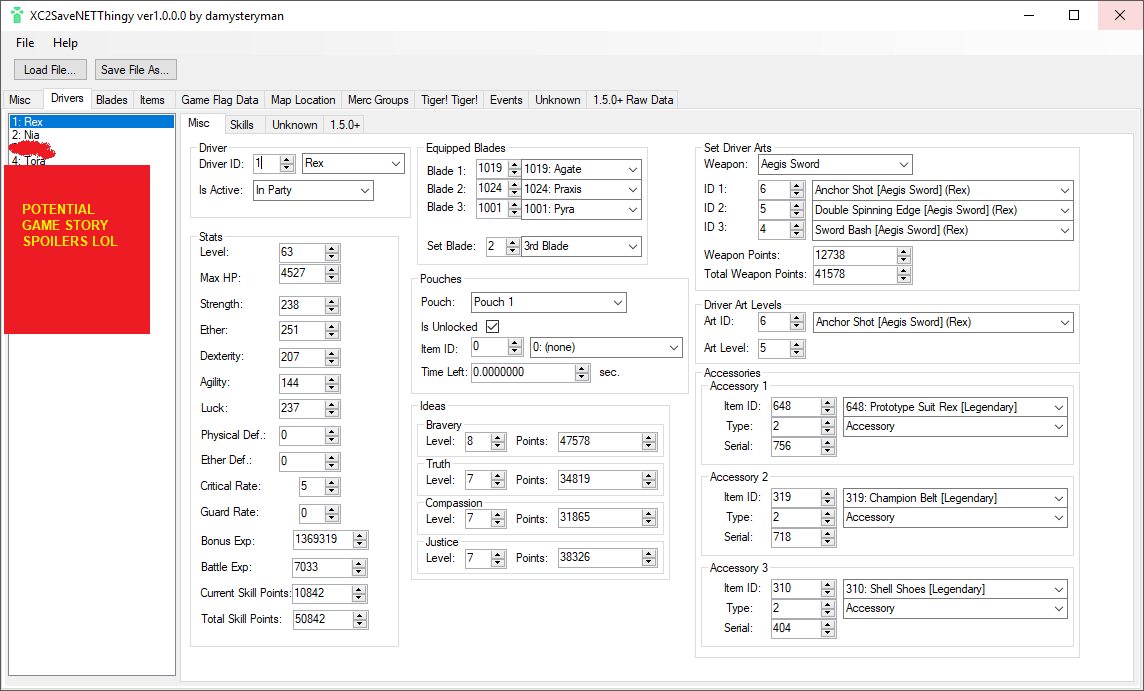
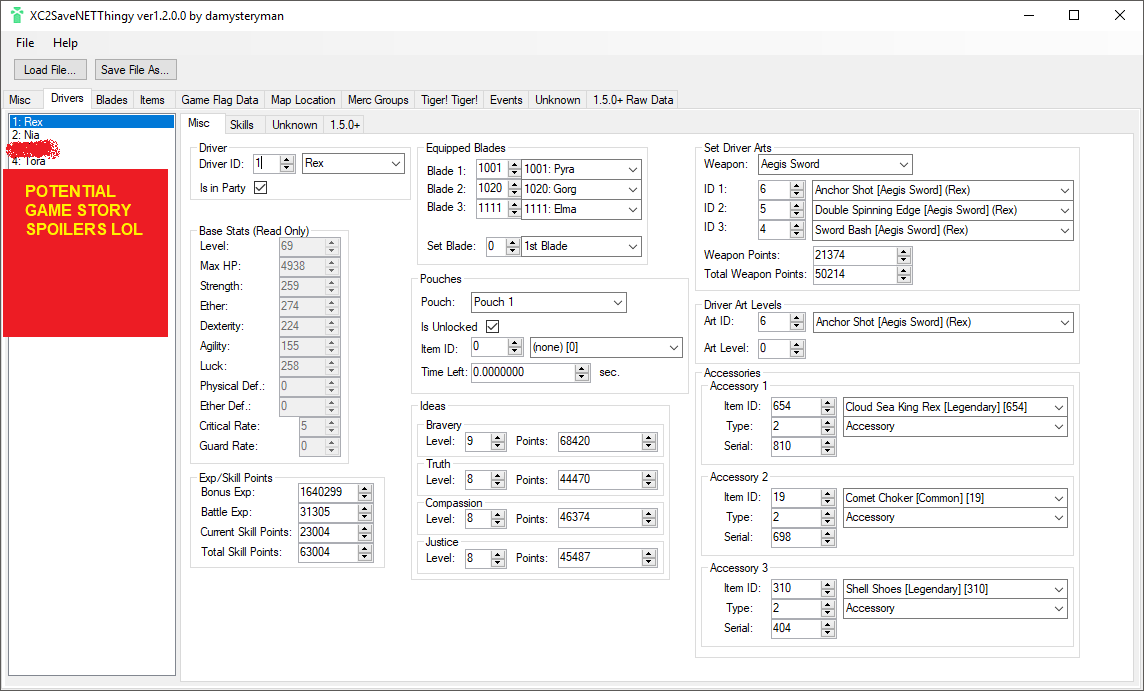
FlagData: - Added name for Corvin's Awakening Viewed Flag XC2Save: - Added support for 1.5.2 Weapon Points / Set Driver Arts XC2Data: - Minor bugfixes data: - Aded missing 1.5.2 DLC Item to Items.csv db: - Updated DB with above changes GUI: - Minor fixes Other: - Updated screenshots

diff --git a/XC2SaveNETThingy/frmMain.Designer.cs b/XC2SaveNETThingy/frmMain.Designer.cs
@@ -198,6 +198,7 @@
             this.lblDriverBonusExp = new System.Windows.Forms.Label();
             this.nudDriverBattleExp = new System.Windows.Forms.NumericUpDown();
             this.gbxDriver = new System.Windows.Forms.GroupBox();
+            this.chkDriverInParty = new System.Windows.Forms.CheckBox();
             this.lblDriverID = new System.Windows.Forms.Label();
             this.cbxDriverID = new System.Windows.Forms.ComboBox();
             this.nudDriverID = new System.Windows.Forms.NumericUpDown();
@@ -1675,7 +1676,6 @@
             this.cmsItems = new System.Windows.Forms.ContextMenuStrip(this.components);
             this.tsmiItemGetNewSerial = new System.Windows.Forms.ToolStripMenuItem();
             this.tsmiItemUpdateTime = new System.Windows.Forms.ToolStripMenuItem();
-            this.chkDriverInParty = new System.Windows.Forms.CheckBox();
             this.gbxTimeData.SuspendLayout();
             this.gbxTotalPlayTime.SuspendLayout();
             ((System.ComponentModel.ISupportInitialize)(this.nudTotalPlayTimeSecond)).BeginInit();
@@ -4448,6 +4448,18 @@
             this.gbxDriver.TabIndex = 45;
             this.gbxDriver.TabStop = false;
             this.gbxDriver.Text = "Driver";
+            // 
+            // chkDriverInParty
+            // 
+            this.chkDriverInParty.AutoSize = true;
+            this.chkDriverInParty.CheckAlign = System.Drawing.ContentAlignment.MiddleRight;
+            this.chkDriverInParty.Location = new System.Drawing.Point(6, 39);
+            this.chkDriverInParty.Name = "chkDriverInParty";
+            this.chkDriverInParty.Size = new System.Drawing.Size(72, 17);
+            this.chkDriverInParty.TabIndex = 42;
+            this.chkDriverInParty.Text = "Is in Party";
+            this.chkDriverInParty.UseVisualStyleBackColor = true;
+            this.chkDriverInParty.CheckedChanged += new System.EventHandler(this.chkDriverInParty_CheckedChanged);
             // 
             // lblDriverID
             // 
@@ -8004,7 +8016,7 @@
             // chkBladeFavoriteCategory0Unlocked
             // 
             this.chkBladeFavoriteCategory0Unlocked.AutoSize = true;
-            this.chkBladeFavoriteCategory0Unlocked.Location = new System.Drawing.Point(350, 22);
+            this.chkBladeFavoriteCategory0Unlocked.Location = new System.Drawing.Point(349, 22);
             this.chkBladeFavoriteCategory0Unlocked.Name = "chkBladeFavoriteCategory0Unlocked";
             this.chkBladeFavoriteCategory0Unlocked.Size = new System.Drawing.Size(76, 17);
             this.chkBladeFavoriteCategory0Unlocked.TabIndex = 128;
@@ -8037,7 +8049,7 @@
             // chkBladeFavoriteItem1Unlocked
             // 
             this.chkBladeFavoriteItem1Unlocked.AutoSize = true;
-            this.chkBladeFavoriteItem1Unlocked.Location = new System.Drawing.Point(350, 82);
+            this.chkBladeFavoriteItem1Unlocked.Location = new System.Drawing.Point(349, 82);
             this.chkBladeFavoriteItem1Unlocked.Name = "chkBladeFavoriteItem1Unlocked";
             this.chkBladeFavoriteItem1Unlocked.Size = new System.Drawing.Size(76, 17);
             this.chkBladeFavoriteItem1Unlocked.TabIndex = 131;
@@ -8121,7 +8133,7 @@
             this.groupBox104.Size = new System.Drawing.Size(593, 259);
             this.groupBox104.TabIndex = 236;
             this.groupBox104.TabStop = false;
-            this.groupBox104.Text = "Misc";
+            this.groupBox104.Text = "Misc (Some stats for Rare Blades are Read Only)";
             // 
             // cbxBladeRareNameID
             // 
@@ -15755,6 +15767,7 @@
             // splitContainer5
             // 
             this.splitContainer5.Dock = System.Windows.Forms.DockStyle.Fill;
+            this.splitContainer5.FixedPanel = System.Windows.Forms.FixedPanel.Panel1;
             this.splitContainer5.Location = new System.Drawing.Point(3, 3);
             this.splitContainer5.Name = "splitContainer5";
             this.splitContainer5.Orientation = System.Windows.Forms.Orientation.Horizontal;
@@ -15848,6 +15861,11 @@
             // nudItemAddNewID
             // 
             this.nudItemAddNewID.Location = new System.Drawing.Point(42, 13);
+            this.nudItemAddNewID.Maximum = new decimal(new int[] {
+            65535,
+            0,
+            0,
+            0});
             this.nudItemAddNewID.Name = "nudItemAddNewID";
             this.nudItemAddNewID.Size = new System.Drawing.Size(55, 20);
             this.nudItemAddNewID.TabIndex = 0;
@@ -21659,18 +21677,6 @@
             this.tsmiItemUpdateTime.Size = new System.Drawing.Size(258, 22);
             this.tsmiItemUpdateTime.Text = "Set Time Acquired to Current Time";
             this.tsmiItemUpdateTime.Click += new System.EventHandler(this.tsmiItemUpdateTime_Click);
-            // 
-            // chkDriverInParty
-            // 
-            this.chkDriverInParty.AutoSize = true;
-            this.chkDriverInParty.CheckAlign = System.Drawing.ContentAlignment.MiddleRight;
-            this.chkDriverInParty.Location = new System.Drawing.Point(6, 39);
-            this.chkDriverInParty.Name = "chkDriverInParty";
-            this.chkDriverInParty.Size = new System.Drawing.Size(72, 17);
-            this.chkDriverInParty.TabIndex = 42;
-            this.chkDriverInParty.Text = "Is in Party";
-            this.chkDriverInParty.UseVisualStyleBackColor = true;
-            this.chkDriverInParty.CheckedChanged += new System.EventHandler(this.chkDriverInParty_CheckedChanged);
             // 
             // frmMain
             // 

diff --git a/XC2SaveNETThingy/SaveObjects/XC2Save.cs b/XC2SaveNETThingy/SaveObjects/XC2Save.cs
@@ -398,42 +398,42 @@ namespace XC2SaveNETThingy
         {
             { "Unk_0x1176A0", 0x1176A0 },
             { "Driver1Weapons150", 0x117700 },
-            { "Unk_0x117728", 0x117728 },
+            { "Unk_0x117750", 0x117750 },
             { "Driver2Weapons150", 0x117A24 },
-            { "Unk_0x117A4C", 0x117A4C },
+            { "Unk_0x117A74", 0x117A74 },
             { "Driver3Weapons150", 0x117D48 },
-            { "Unk_0x117D70", 0x117D70 },
+            { "Unk_0x117D98", 0x117D98 },
             { "Driver6Weapons150", 0x1186B4 },
-            { "Unk_0x1186DC", 0x1186DC }
+            { "Unk_0x118704", 0x118704 }
         };
 
         public XC2Save150(Byte[] data) : base(data)
         {
             Unk_0x1176A0 = data.GetByteSubArray(LOC["Unk_0x1176A0"], 0x60);
 
-            Driver1Weapons150 = new Weapon[2];
+            Driver1Weapons150 = new Weapon[4];
             for (int i = 0; i < Driver1Weapons150.Length; i++)
                 Driver1Weapons150[i] = new Weapon(data.GetByteSubArray(LOC["Driver1Weapons150"] + (i * Weapon.SIZE), Weapon.SIZE));
 
-            Unk_0x117728 = data.GetByteSubArray(LOC["Unk_0x117728"], 0x2FC);
+            Unk_0x117728 = data.GetByteSubArray(LOC["Unk_0x117750"], 0x2D4);
 
-            Driver2Weapons150 = new Weapon[2];
+            Driver2Weapons150 = new Weapon[4];
             for (int i = 0; i < Driver2Weapons150.Length; i++)
                 Driver2Weapons150[i] = new Weapon(data.GetByteSubArray(LOC["Driver2Weapons150"] + (i * Weapon.SIZE), Weapon.SIZE));
 
-            Unk_0x117A4C = data.GetByteSubArray(LOC["Unk_0x117A4C"], 0x2FC);
+            Unk_0x117A4C = data.GetByteSubArray(LOC["Unk_0x117A74"], 0x2D4);
 
-            Driver3Weapons150 = new Weapon[2];
+            Driver3Weapons150 = new Weapon[4];
             for (int i = 0; i < Driver3Weapons150.Length; i++)
                 Driver3Weapons150[i] = new Weapon(data.GetByteSubArray(LOC["Driver3Weapons150"] + (i * Weapon.SIZE), Weapon.SIZE));
 
-            Unk_0x117D70 = data.GetByteSubArray(LOC["Unk_0x117D70"], 0x944);
+            Unk_0x117D70 = data.GetByteSubArray(LOC["Unk_0x117D98"], 0x91C);
 
-            Driver6Weapons150 = new Weapon[2];
+            Driver6Weapons150 = new Weapon[4];
             for (int i = 0; i < Driver6Weapons150.Length; i++)
                 Driver6Weapons150[i] = new Weapon(data.GetByteSubArray(LOC["Driver6Weapons150"] + (i * Weapon.SIZE), Weapon.SIZE));
 
-            Unk_0x1186DC = data.GetByteSubArray(LOC["Unk_0x1186DC"], 0xE6B4);
+            Unk_0x1186DC = data.GetByteSubArray(LOC["Unk_0x118704"], 0xE68C);
         }
 
         public override Byte[] ToRawData()

diff --git a/XC2SaveNETThingy/XC2Data.cs b/XC2SaveNETThingy/XC2Data.cs
@@ -73,7 +73,7 @@ namespace XC2SaveNETThingy
                 "SELECT ID, " +
                 "(SELECT CASE(ID) " +
                 "WHEN 0 THEN(Name_" + LANG_STR[l] + ") " +
-                "ELSE(Name_" + LANG_STR[l] + " || '[' || (SELECT Name_" + LANG_STR[l] + " FROM WeaponTypes WHERE ID = WeaponTypeID) || '](' || (SELECT Name_" + LANG_STR[l] + " FROM Drivers WHERE ID = DriverID) || ')') " +
+                "ELSE(Name_" + LANG_STR[l] + " || ' [' || (SELECT Name_" + LANG_STR[l] + " FROM WeaponTypes WHERE ID = WeaponTypeID) || '] (' || (SELECT Name_" + LANG_STR[l] + " FROM Drivers WHERE ID = DriverID) || ')') " +
                 "END) AS FriendlyName " +
                 "FROM DriverArts";
 
@@ -143,14 +143,14 @@ namespace XC2SaveNETThingy
                     "FROM WeaponTypes WHERE ID >= 27 AND ID < 33";
             }
 
-            if ((args_bits & 4) >> 2 == 1) // get 1.5.0 monado + knives
+            if ((args_bits & 4) >> 2 == 1) // get 1.5.0+ weapons
             {
                 if (query != "")
                     query += " UNION ";
                 query +=
                     "SELECT ID, " +
                     "Name_" + LANG_STR[l] + " AS Name " +
-                    "FROM WeaponTypes WHERE ID >= 33 AND ID < 35";
+                    "FROM WeaponTypes WHERE ID >= 33 AND ID < 37";
             }
 
             return GetDataSet(query).Tables[0];
@@ -261,7 +261,7 @@ namespace XC2SaveNETThingy
                 "Name_" + LANG_STR[l] + " AS Name " +
                 "FROM FavCategories";
 
-            return GetDataSet("SELECT * FROM FavCategories").Tables[0];
+            return GetDataSet(query).Tables[0];
         }
 
         public static DataTable GetCoreChips(LANG l = LANG.EN)

diff --git a/XC2SaveNETThingy/frmMain.cs b/XC2SaveNETThingy/frmMain.cs
@@ -1609,6 +1609,7 @@ namespace XC2SaveNETThingy
             txtBladeMotionResourceName.Enabled = enabled;
             txtBladeMotion2Name.Enabled = enabled;
             txtBladeAddMotionName.Enabled = enabled;
+            txtBladeVoiceName.Enabled = enabled;
             hbxBladeClipEvent.Enabled = enabled;
             txtBladeComSE.Enabled = enabled;
             txtBladeEffectResourceName.Enabled = enabled;

diff --git a/XC2SaveNETThingy/SaveObjects/FlagData.cs b/XC2SaveNETThingy/SaveObjects/FlagData.cs
@@ -141,7 +141,7 @@ namespace XC2SaveNETThingy
             { 47043, "Knuckle Claws Brute's Awakening Viewed" },
             { 47044, "Twin Rings Beast's Awakening Viewed" },
             { 47045, "T-elos's Awakening Viewed" },
-            { 47046, "UNRELEASED BLADE PLACEHOLDER?" },
+            { 47046, "Corvin's Awakening Viewed" },
             { 47047, "Crossette's Awakening Viewed" }
         };
 

diff --git a/XC2SaveNETThingy/Properties/AssemblyInfo.cs b/XC2SaveNETThingy/Properties/AssemblyInfo.cs
@@ -32,5 +32,5 @@ using System.Runtime.InteropServices;
 // You can specify all the values or you can default the Build and Revision Numbers
 // by using the '*' as shown below:
 // [assembly: AssemblyVersion("1.0.*")]
-[assembly: AssemblyVersion("1.1.0.0")]
-[assembly: AssemblyFileVersion("1.1.0.0")]
+[assembly: AssemblyVersion("1.2.0.0")]
+[assembly: AssemblyFileVersion("1.2.0.0")]
